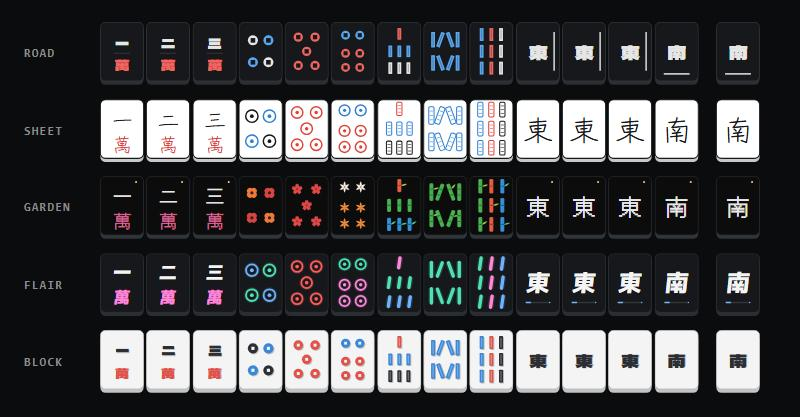
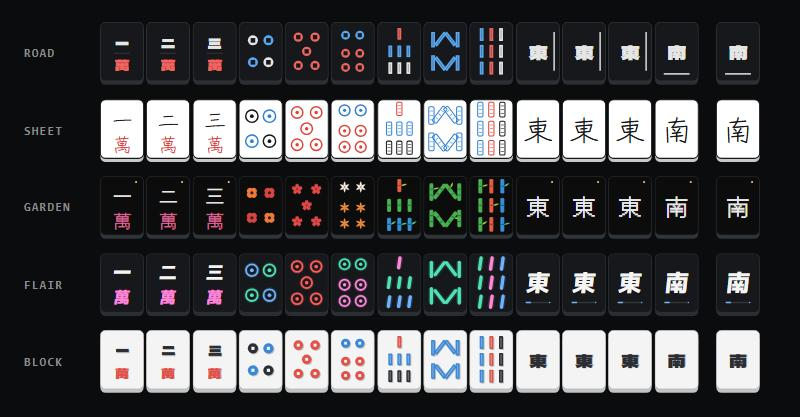
Classic 8 sou, green sparrows with red feet, contrast fixes (v1.6.0)
- 8 sou: the classic layout, checked against traditional tile art. The
  outer sticks stand straight; the inner pair now leans right out to them
  (about 38 degrees), peaking at the top centre above and meeting at the
  bottom centre below.
- 1 sou sparrow: a green wing and tail and red feet in every set, as the
  traditional 1 sou bird is green and red.
- Contrast check over every tile: Block's sparrow body was too close to its
  light tile (2.05:1, now 3.3:1), Block's tile back is darker so its squares
  stand out, and Road's 1 pin speed arc is brighter (2.1:1, now 3.4:1).

Only the 1 sou and 8 sou of every set, Road's 1 pin and Block's back changed.

diff --git a/lines-skin.js b/lines-skin.js
@@ -1,4 +1,4 @@
-/*! lines-tiles.js 1.5.0 -- animated mahjong tiles in the style of Lines. No dependencies.
+/*! lines-tiles.js 1.6.0 -- animated mahjong tiles in the style of Lines. No dependencies.
  *
  *   <script src="lines-tiles.js"></script>
  *   <lines-tile set="flair" tile="5p"></lines-tile>                    one tile
@@ -33,7 +33,7 @@
 (function (root) {
   "use strict";
 
-  var VERSION = "1.5.0";
+  var VERSION = "1.6.0";
   var KANJI = ["\u4e00", "\u4e8c", "\u4e09", "\u56db", "\u4e94", "\u516d", "\u4e03", "\u516b", "\u4e5d"];
   var HON = ["\u6771", "\u5357", "\u897f", "\u5317", "\u767d", "\u767c", "\u4e2d"];
   var MAN = "\u842c";
@@ -75,10 +75,10 @@
     7: [[30, 13, 18, "R", 0]].concat([16, 30, 44].reduce(function (a, x) {
       return a.concat([[x, 40, 18, "G", 0], [x, 66, 18, "B", 0]]);
     }, [])),
-    // 8 sou as on the real tile: straight outer sticks; the inner pair leans into a peak above and a V
-    // below, so together they make a diamond; all one colour
-    8: [[11, 22, 24, "G", 0], [22.5, 22, 24, "G", 20], [37.5, 22, 24, "G", -20], [49, 22, 24, "G", 0],
-        [11, 58, 24, "G", 0], [22.5, 58, 24, "G", -20], [37.5, 58, 24, "G", 20], [49, 58, 24, "G", 0]],
+    // 8 sou as on the classic tile: straight outer sticks; between them the inner pair leans right out to
+    // the outer sticks, peaking at the top centre above (/\) and meeting at the bottom centre below (\/)
+    8: [[11, 22, 24, "G", 0], [22.3, 21, 25, "G", 37.6], [37.7, 21, 25, "G", -37.6], [49, 22, 24, "G", 0],
+        [11, 58, 24, "G", 0], [22.3, 59, 25, "G", -37.6], [37.7, 59, 25, "G", 37.6], [49, 58, 24, "G", 0]],
     9: [14, 40, 66].reduce(function (a, y) {
       return a.concat([[15, y, 20, "G", 0], [30, y, 20, "R", 0], [45, y, 20, "B", 0]]);
     }, [])
@@ -130,9 +130,10 @@
     cap: "M 30.54 28.55 A 7.6 7.6 0 0 1 45.48 28.68 C 41 25.8 35 25.8 30.54 28.55 Z",
     bib: "M 44 33.5 C 43.5 37 41 39.5 38 39.5 C 39.5 37.5 41.5 35 42.5 33 Z",
     beak: "M 45 29.5 L 50.5 31.2 L 45 33 Z",
-    legs: "M 30 59.5 L 29 64.8 M 35 59.5 L 35 64.8 M 26.5 64.8 L 31 64.8 M 33 64.8 L 37.5 64.8"
+    legs: "M 30 59.5 L 29 64.4 M 35 59.5 L 35 64.4",
+    feet: "M 26.3 64.8 L 31.4 64.8 M 32.8 64.8 L 37.9 64.8"
   };
-  // p: colours for tail, body, wing, streak, head, cap, cheek, bib, beak, eye, glint, legs (leave any out);
+  // p: colours for tail, body, wing, streak, head, cap, cheek, bib, beak, eye, glint, legs, feet (leave any out);
   // o.line + o.lw: an outline round the big shapes; o.glow: a soft halo behind them
   function sparrow(p, o) {
     o = o || {};
@@ -152,6 +153,7 @@
     s += C(40.2, 29.2, 1.35, { fill: p.eye });
     if (p.glint) s += C(40.6, 28.8, 0.42, { fill: p.glint });
     if (p.legs) s += P(SPARROW.legs, { stroke: p.legs, sw: 1.1, lc: "round" });
+    if (p.feet || p.legs) s += P(SPARROW.feet, { stroke: p.feet || p.legs, sw: 1.4, lc: "round" });
     return s;
   }
   function skew(x, y, deg) { return "translate(" + x + " " + y + ") skewX(" + deg + ") translate(" + (-x) + " " + (-y) + ")"; }
@@ -178,7 +180,7 @@
     p: function (t, c) {
       if (t.n === 1) {
         var col = t.red ? c.red : c.ink, dx = n2(Math.sqrt(21.5 * 21.5 - 12 * 12));
-        return P("M " + n2(30 - dx) + " 52 A 21.5 21.5 0 0 0 " + n2(30 + dx) + " 52", { stroke: "#4a4e55", sw: 2.4, lc: "round" }) +
+        return P("M " + n2(30 - dx) + " 52 A 21.5 21.5 0 0 0 " + n2(30 + dx) + " 52", { stroke: "#686d75", sw: 2.4, lc: "round" }) +
           C(30, 40, 16.5, { fill: col }) + R(23, 33, 14, 14, { fill: c.face });
       }
       return PIN[t.n].map(function (p) {
@@ -189,8 +191,8 @@
     s: function (t, c) {
       if (t.n === 1) {                  // a white sparrow on a stretch of road, hopping now and then
         return R(8, 64.8, 44, 5.4, { fill: c.ink }) + P("M 11 67.5 H 49", { stroke: c.face, sw: 0.8, op: 0.6 }) +
-          G(sparrow({ tail: "#b9b9b9", body: c.ink, wing: "#b9b9b9", streak: c.face, head: c.ink, cap: "#8c8c8c",
-            bib: c.face, beak: c.face, eye: c.face, legs: c.ink }), { cls: "lt-hop" });
+          G(sparrow({ tail: "#5bc874", body: c.ink, wing: "#5bc874", streak: "#2a6b3a", head: c.ink, cap: "#8c8c8c",
+            bib: c.face, beak: c.face, eye: c.face, legs: c.ink, feet: c.red }), { cls: "lt-hop" });
       }
       return SOU[t.n].map(function (b) {
         var col = roleColour(c, b[3], t.red), x = b[0], y = b[1], h = b[2];
@@ -245,8 +247,8 @@
       if (t.n === 1) {                  // the sparrow drawn in ink, grey and tan pencil on the cap and wing; it boils
         var ink = "#16181b";
         return G(P("M 9 65.6 C 20 64 34 67 52 64.8", { stroke: ink, sw: 1.3, lc: "round" }) +
-          sparrow({ tail: "#ffffff", body: "#ffffff", wing: "#ead6b8", streak: ink, head: "#ffffff", cap: "#8c8c8c",
-            bib: ink, beak: ink, eye: ink, legs: ink }, { line: ink, lw: 1.2 }), { cls: "lt-boil" });
+          sparrow({ tail: "#bfe3c8", body: "#ffffff", wing: "#bfe3c8", streak: ink, head: "#ffffff", cap: "#8c8c8c",
+            bib: ink, beak: ink, eye: ink, legs: ink, feet: c.red }, { line: ink, lw: 1.2 }), { cls: "lt-boil" });
       }
       return SOU[t.n].map(function (b, i) {
         var col = roleColour(c, b[3], t.red), x = b[0], y = b[1], h = b[2];
@@ -374,10 +376,11 @@
     },
     s: function (t, c) {
       if (t.n === 1) {                  // a house sparrow on a twig, hopping now and then
-        return P("M 8 66 C 20 64.6 36 66.4 53 65", { stroke: "#6e4c35", sw: 2.4, lc: "round" }) +
+        return P("M 8 66 C 20 64.6 36 66.4 53 65", { stroke: "#9a7050", sw: 2.4, lc: "round" }) +
           G(P(leafD(46, 65.5, 7, 34, -40), { fill: c.leaf }), { cls: "lt-flutter", st: "transform-origin:0% 100%" }) +
-          G(sparrow({ tail: "#7a5434", body: "#c4a37a", wing: "#8b5e36", streak: "#4d321c", head: "#b08a62", cap: "#7b7570",
-            cheek: "#efe6d4", bib: "#2e2724", beak: "#2e2724", eye: "#15110f", glint: "#ffffff", legs: "#a77d5c" }), { cls: "lt-hop" });
+          G(sparrow({ tail: "#5f9a45", body: "#c4a37a", wing: "#6aab4c", streak: "#2f5a24", head: "#b08a62", cap: "#8a847e",
+            cheek: "#efe6d4", bib: "#2e2724", beak: "#2e2724", eye: "#15110f", glint: "#ffffff", legs: "#c49a76",
+            feet: c.red }), { cls: "lt-hop" });
       }
       return SOU[t.n].map(function (b, i) {
         var col = t.red ? c.stem.red : c.stem[b[3]], x = b[0], y = b[1], h = b[2], top = y - h / 2;
@@ -456,8 +459,8 @@
       if (t.n === 1) {                  // the sparrow as a neon outline over a soft halo, hopping now and then
         return P("M 9 65.2 H 51", { stroke: c.roles.B, sw: 4.6, op: 0.16, lc: "round" }) +
           P("M 9 65.2 H 51", { stroke: c.roles.B, sw: 1.8, lc: "round" }) +
-          G(sparrow({ tail: c.face, body: c.face, wing: c.face, streak: c.roles.R, head: c.face, cap: c.roles.R,
-            bib: c.roles.R, beak: "#efc84a", eye: c.accent, legs: c.accent }, { line: c.accent, lw: 1.6, glow: c.accent }), { cls: "lt-hop" });
+          G(sparrow({ tail: "#1f5a37", body: c.face, wing: "#1f5a37", streak: "#46e07f", head: c.face, cap: c.roles.R,
+            bib: c.roles.R, beak: "#efc84a", eye: c.accent, legs: c.accent, feet: c.red }, { line: c.accent, lw: 1.6, glow: c.accent }), { cls: "lt-hop" });
       }
       return SOU[t.n].map(function (b) {
         var col = roleColour(c, b[3], t.red), x = b[0], y = b[1], h = b[2];
@@ -495,7 +498,7 @@
   S.block = {
     fonts: ["dela"],
     inset: 0.88,
-    c: { face: "#f4f4f4", edge: "#c4c4c4", border: "#b4b4b4", bw: 1, backFace: "#e4e4e4", side: "#bdbdbd", depth: 1.5,
+    c: { face: "#f4f4f4", edge: "#c4c4c4", border: "#b4b4b4", bw: 1, backFace: "#cfd3d6", side: "#bdbdbd", depth: 1.5,
          roles: { B: "#2b2e33", G: "#3a86d8", R: "#e0524a" }, red: "#e0524a" },
     p: function (t, c) {
       var d = c.depth, sides = "", tops = "";
@@ -515,8 +518,8 @@
         return G(R(10 + d, 64.8 + d, 40, 4.6, { rx: 1, fill: c.side }), { cls: "lt-breath" }) +
           R(10, 64.8, 40, 4.6, { rx: 1, fill: "#3f9a55" }) +
           G(G(G(sparrow(shadow), { tf: "translate(" + d + " " + d + ")" }), { cls: "lt-breath" }) +
-            sparrow({ tail: "#8a5a33", body: "#c9a77c", wing: "#8a5a33", streak: "#5a3a20", head: "#b08a62", cap: "#6f6a66",
-              cheek: "#f4f4f4", bib: c.roles.B, beak: c.roles.B, eye: c.roles.B, legs: "#8a5a33" }), { cls: "lt-bob" });
+            sparrow({ tail: "#3f9a55", body: "#a87e4e", wing: "#4fae63", streak: "#2a6b3a", head: "#9c7448", cap: "#6f6a66",
+              cheek: "#f4f4f4", bib: c.roles.B, beak: c.roles.B, eye: c.roles.B, legs: "#8a5a33", feet: c.red }), { cls: "lt-bob" });
       }
       var sides = "", tops = "";
       SOU[t.n].forEach(function (b) {
@@ -550,7 +553,7 @@
       for (var i = 0; i < 3; i++) {
         for (var j = 0; j < 4; j++) {
           var x = 9 + i * 15, y = 9 + j * 16;
-          sides += R(x + d, y + d, 9, 9, { fill: c.side });
+          sides += R(x + d, y + d, 9, 9, { fill: "#8f9499" });   // darker than the face shadows: the back is grey
           tops += R(x, y, 9, 9, { fill: "#f4f4f4" });
         }
       }

diff --git a/lines-tiles.js b/lines-tiles.js
@@ -1,4 +1,4 @@
-/*! lines-tiles.js 1.5.0 -- animated mahjong tiles in the style of Lines. No dependencies.
+/*! lines-tiles.js 1.6.0 -- animated mahjong tiles in the style of Lines. No dependencies.
  *
  *   <script src="lines-tiles.js"></script>
  *   <lines-tile set="flair" tile="5p"></lines-tile>                    one tile
@@ -33,7 +33,7 @@
 (function (root) {
   "use strict";
 
-  var VERSION = "1.5.0";
+  var VERSION = "1.6.0";
   var KANJI = ["\u4e00", "\u4e8c", "\u4e09", "\u56db", "\u4e94", "\u516d", "\u4e03", "\u516b", "\u4e5d"];
   var HON = ["\u6771", "\u5357", "\u897f", "\u5317", "\u767d", "\u767c", "\u4e2d"];
   var MAN = "\u842c";
@@ -75,10 +75,10 @@
     7: [[30, 13, 18, "R", 0]].concat([16, 30, 44].reduce(function (a, x) {
       return a.concat([[x, 40, 18, "G", 0], [x, 66, 18, "B", 0]]);
     }, [])),
-    // 8 sou as on the real tile: straight outer sticks; the inner pair leans into a peak above and a V
-    // below, so together they make a diamond; all one colour
-    8: [[11, 22, 24, "G", 0], [22.5, 22, 24, "G", 20], [37.5, 22, 24, "G", -20], [49, 22, 24, "G", 0],
-        [11, 58, 24, "G", 0], [22.5, 58, 24, "G", -20], [37.5, 58, 24, "G", 20], [49, 58, 24, "G", 0]],
+    // 8 sou as on the classic tile: straight outer sticks; between them the inner pair leans right out to
+    // the outer sticks, peaking at the top centre above (/\) and meeting at the bottom centre below (\/)
+    8: [[11, 22, 24, "G", 0], [22.3, 21, 25, "G", 37.6], [37.7, 21, 25, "G", -37.6], [49, 22, 24, "G", 0],
+        [11, 58, 24, "G", 0], [22.3, 59, 25, "G", -37.6], [37.7, 59, 25, "G", 37.6], [49, 58, 24, "G", 0]],
     9: [14, 40, 66].reduce(function (a, y) {
       return a.concat([[15, y, 20, "G", 0], [30, y, 20, "R", 0], [45, y, 20, "B", 0]]);
     }, [])
@@ -130,9 +130,10 @@
     cap: "M 30.54 28.55 A 7.6 7.6 0 0 1 45.48 28.68 C 41 25.8 35 25.8 30.54 28.55 Z",
     bib: "M 44 33.5 C 43.5 37 41 39.5 38 39.5 C 39.5 37.5 41.5 35 42.5 33 Z",
     beak: "M 45 29.5 L 50.5 31.2 L 45 33 Z",
-    legs: "M 30 59.5 L 29 64.8 M 35 59.5 L 35 64.8 M 26.5 64.8 L 31 64.8 M 33 64.8 L 37.5 64.8"
+    legs: "M 30 59.5 L 29 64.4 M 35 59.5 L 35 64.4",
+    feet: "M 26.3 64.8 L 31.4 64.8 M 32.8 64.8 L 37.9 64.8"
   };
-  // p: colours for tail, body, wing, streak, head, cap, cheek, bib, beak, eye, glint, legs (leave any out);
+  // p: colours for tail, body, wing, streak, head, cap, cheek, bib, beak, eye, glint, legs, feet (leave any out);
   // o.line + o.lw: an outline round the big shapes; o.glow: a soft halo behind them
   function sparrow(p, o) {
     o = o || {};
@@ -152,6 +153,7 @@
     s += C(40.2, 29.2, 1.35, { fill: p.eye });
     if (p.glint) s += C(40.6, 28.8, 0.42, { fill: p.glint });
     if (p.legs) s += P(SPARROW.legs, { stroke: p.legs, sw: 1.1, lc: "round" });
+    if (p.feet || p.legs) s += P(SPARROW.feet, { stroke: p.feet || p.legs, sw: 1.4, lc: "round" });
     return s;
   }
   function skew(x, y, deg) { return "translate(" + x + " " + y + ") skewX(" + deg + ") translate(" + (-x) + " " + (-y) + ")"; }
@@ -178,7 +180,7 @@
     p: function (t, c) {
       if (t.n === 1) {
         var col = t.red ? c.red : c.ink, dx = n2(Math.sqrt(21.5 * 21.5 - 12 * 12));
-        return P("M " + n2(30 - dx) + " 52 A 21.5 21.5 0 0 0 " + n2(30 + dx) + " 52", { stroke: "#4a4e55", sw: 2.4, lc: "round" }) +
+        return P("M " + n2(30 - dx) + " 52 A 21.5 21.5 0 0 0 " + n2(30 + dx) + " 52", { stroke: "#686d75", sw: 2.4, lc: "round" }) +
           C(30, 40, 16.5, { fill: col }) + R(23, 33, 14, 14, { fill: c.face });
       }
       return PIN[t.n].map(function (p) {
@@ -189,8 +191,8 @@
     s: function (t, c) {
       if (t.n === 1) {                  // a white sparrow on a stretch of road, hopping now and then
         return R(8, 64.8, 44, 5.4, { fill: c.ink }) + P("M 11 67.5 H 49", { stroke: c.face, sw: 0.8, op: 0.6 }) +
-          G(sparrow({ tail: "#b9b9b9", body: c.ink, wing: "#b9b9b9", streak: c.face, head: c.ink, cap: "#8c8c8c",
-            bib: c.face, beak: c.face, eye: c.face, legs: c.ink }), { cls: "lt-hop" });
+          G(sparrow({ tail: "#5bc874", body: c.ink, wing: "#5bc874", streak: "#2a6b3a", head: c.ink, cap: "#8c8c8c",
+            bib: c.face, beak: c.face, eye: c.face, legs: c.ink, feet: c.red }), { cls: "lt-hop" });
       }
       return SOU[t.n].map(function (b) {
         var col = roleColour(c, b[3], t.red), x = b[0], y = b[1], h = b[2];
@@ -245,8 +247,8 @@
       if (t.n === 1) {                  // the sparrow drawn in ink, grey and tan pencil on the cap and wing; it boils
         var ink = "#16181b";
         return G(P("M 9 65.6 C 20 64 34 67 52 64.8", { stroke: ink, sw: 1.3, lc: "round" }) +
-          sparrow({ tail: "#ffffff", body: "#ffffff", wing: "#ead6b8", streak: ink, head: "#ffffff", cap: "#8c8c8c",
-            bib: ink, beak: ink, eye: ink, legs: ink }, { line: ink, lw: 1.2 }), { cls: "lt-boil" });
+          sparrow({ tail: "#bfe3c8", body: "#ffffff", wing: "#bfe3c8", streak: ink, head: "#ffffff", cap: "#8c8c8c",
+            bib: ink, beak: ink, eye: ink, legs: ink, feet: c.red }, { line: ink, lw: 1.2 }), { cls: "lt-boil" });
       }
       return SOU[t.n].map(function (b, i) {
         var col = roleColour(c, b[3], t.red), x = b[0], y = b[1], h = b[2];
@@ -374,10 +376,11 @@
     },
     s: function (t, c) {
       if (t.n === 1) {                  // a house sparrow on a twig, hopping now and then
-        return P("M 8 66 C 20 64.6 36 66.4 53 65", { stroke: "#6e4c35", sw: 2.4, lc: "round" }) +
+        return P("M 8 66 C 20 64.6 36 66.4 53 65", { stroke: "#9a7050", sw: 2.4, lc: "round" }) +
           G(P(leafD(46, 65.5, 7, 34, -40), { fill: c.leaf }), { cls: "lt-flutter", st: "transform-origin:0% 100%" }) +
-          G(sparrow({ tail: "#7a5434", body: "#c4a37a", wing: "#8b5e36", streak: "#4d321c", head: "#b08a62", cap: "#7b7570",
-            cheek: "#efe6d4", bib: "#2e2724", beak: "#2e2724", eye: "#15110f", glint: "#ffffff", legs: "#a77d5c" }), { cls: "lt-hop" });
+          G(sparrow({ tail: "#5f9a45", body: "#c4a37a", wing: "#6aab4c", streak: "#2f5a24", head: "#b08a62", cap: "#8a847e",
+            cheek: "#efe6d4", bib: "#2e2724", beak: "#2e2724", eye: "#15110f", glint: "#ffffff", legs: "#c49a76",
+            feet: c.red }), { cls: "lt-hop" });
       }
       return SOU[t.n].map(function (b, i) {
         var col = t.red ? c.stem.red : c.stem[b[3]], x = b[0], y = b[1], h = b[2], top = y - h / 2;
@@ -456,8 +459,8 @@
       if (t.n === 1) {                  // the sparrow as a neon outline over a soft halo, hopping now and then
         return P("M 9 65.2 H 51", { stroke: c.roles.B, sw: 4.6, op: 0.16, lc: "round" }) +
           P("M 9 65.2 H 51", { stroke: c.roles.B, sw: 1.8, lc: "round" }) +
-          G(sparrow({ tail: c.face, body: c.face, wing: c.face, streak: c.roles.R, head: c.face, cap: c.roles.R,
-            bib: c.roles.R, beak: "#efc84a", eye: c.accent, legs: c.accent }, { line: c.accent, lw: 1.6, glow: c.accent }), { cls: "lt-hop" });
+          G(sparrow({ tail: "#1f5a37", body: c.face, wing: "#1f5a37", streak: "#46e07f", head: c.face, cap: c.roles.R,
+            bib: c.roles.R, beak: "#efc84a", eye: c.accent, legs: c.accent, feet: c.red }, { line: c.accent, lw: 1.6, glow: c.accent }), { cls: "lt-hop" });
       }
       return SOU[t.n].map(function (b) {
         var col = roleColour(c, b[3], t.red), x = b[0], y = b[1], h = b[2];
@@ -495,7 +498,7 @@
   S.block = {
     fonts: ["dela"],
     inset: 0.88,
-    c: { face: "#f4f4f4", edge: "#c4c4c4", border: "#b4b4b4", bw: 1, backFace: "#e4e4e4", side: "#bdbdbd", depth: 1.5,
+    c: { face: "#f4f4f4", edge: "#c4c4c4", border: "#b4b4b4", bw: 1, backFace: "#cfd3d6", side: "#bdbdbd", depth: 1.5,
          roles: { B: "#2b2e33", G: "#3a86d8", R: "#e0524a" }, red: "#e0524a" },
     p: function (t, c) {
       var d = c.depth, sides = "", tops = "";
@@ -515,8 +518,8 @@
         return G(R(10 + d, 64.8 + d, 40, 4.6, { rx: 1, fill: c.side }), { cls: "lt-breath" }) +
           R(10, 64.8, 40, 4.6, { rx: 1, fill: "#3f9a55" }) +
           G(G(G(sparrow(shadow), { tf: "translate(" + d + " " + d + ")" }), { cls: "lt-breath" }) +
-            sparrow({ tail: "#8a5a33", body: "#c9a77c", wing: "#8a5a33", streak: "#5a3a20", head: "#b08a62", cap: "#6f6a66",
-              cheek: "#f4f4f4", bib: c.roles.B, beak: c.roles.B, eye: c.roles.B, legs: "#8a5a33" }), { cls: "lt-bob" });
+            sparrow({ tail: "#3f9a55", body: "#a87e4e", wing: "#4fae63", streak: "#2a6b3a", head: "#9c7448", cap: "#6f6a66",
+              cheek: "#f4f4f4", bib: c.roles.B, beak: c.roles.B, eye: c.roles.B, legs: "#8a5a33", feet: c.red }), { cls: "lt-bob" });
       }
       var sides = "", tops = "";
       SOU[t.n].forEach(function (b) {
@@ -550,7 +553,7 @@
       for (var i = 0; i < 3; i++) {
         for (var j = 0; j < 4; j++) {
           var x = 9 + i * 15, y = 9 + j * 16;
-          sides += R(x + d, y + d, 9, 9, { fill: c.side });
+          sides += R(x + d, y + d, 9, 9, { fill: "#8f9499" });   // darker than the face shadows: the back is grey
           tops += R(x, y, 9, 9, { fill: "#f4f4f4" });
         }
       }

diff --git a/README.md b/README.md
@@ -8,7 +8,7 @@ Animated mahjong tiles in the style of **Lines**, in five sets:
 - **Flair** — neon on a dark tile: crisp marks over a soft, steady glow, and a slow sheen that crosses each tile now and then.
 - **Block** — the 3D view: every mark a softly extruded block on a light tile, the depth drifting as if the camera moved.
 
-In every set the 1 sou is a sparrow, drawn in that set's style, and the 8 sou has the real tile's layout: straight outer sticks, with the inner pair leaning into a peak above and a V below.
+In every set the 1 sou is a sparrow with a green wing and tail and red feet, as the traditional 1 sou bird is green and red, drawn in that set's style. The 8 sou has the classic layout: straight outer sticks, with the inner pair leaning right out to them, peaking at the top above and meeting at the bottom below.
 
 ![The same hand in all five sets](preview.png)
 
@@ -21,7 +21,7 @@ Open `index.html` for the live demo: every tile, a playable hand, and a box wher
 `lines-skin.js` re-skins a page that already draws mahjong tiles, without changing any of its code. Add this line to each page that shows tiles (the review page, and the live-play page if it has one), anywhere in the HTML:
 
 ```html
-<script src="https://cdn.jsdelivr.net/gh/calicocowz/Mahjong-Animated-Tiles@v1.5.0/lines-skin.js" data-set="flair"></script>
+<script src="https://cdn.jsdelivr.net/gh/calicocowz/Mahjong-Animated-Tiles@v1.6.0/lines-skin.js" data-set="flair"></script>
 ```
 
 That's the whole install. How it works and what to know:
@@ -77,10 +77,10 @@ Changing an attribute later redraws the element.
 **2. Load it from a CDN, straight from this GitHub repo.** [jsDelivr](https://www.jsdelivr.com/) serves files from public GitHub repos, no upload needed:
 
 ```html
-<script src="https://cdn.jsdelivr.net/gh/calicocowz/Mahjong-Animated-Tiles@v1.5.0/lines-tiles.js"></script>
+<script src="https://cdn.jsdelivr.net/gh/calicocowz/Mahjong-Animated-Tiles@v1.6.0/lines-tiles.js"></script>
 ```
 
-`@v1.5.0` pins this version (the git tag `v1.5.0`), so a later change to the repo can never change a site that uses it. To move to a newer version, change the number.
+`@v1.6.0` pins this version (the git tag `v1.6.0`), so a later change to the repo can never change a site that uses it. To move to a newer version, change the number.
 
 **3. Use the demo as a page.** In the repo's *Settings → Pages*, choose *Deploy from a branch*, then `main` and `/ (root)`. The pages then go live at `https://calicocowz.github.io/Mahjong-Animated-Tiles/` (the demo) and `https://calicocowz.github.io/Mahjong-Animated-Tiles/showcase.html` (the showcase).
 
@@ -119,7 +119,7 @@ LinesTiles.parseHand("12m 3p")   // ["1m", "2m", null, "3p"]   (null = gap)
 LinesTiles.label("0p")           // "red 5 pin"
 LinesTiles.sets                  // ["road", "sheet", "garden", "flair", "block"]
 LinesTiles.tiles                 // every tile code, in order
-LinesTiles.version               // "1.5.0"
+LinesTiles.version               // "1.6.0"
 ```
 
 `svg`, `hand` and `parseHand` throw an `Error` on an unknown set, tile or notation.
